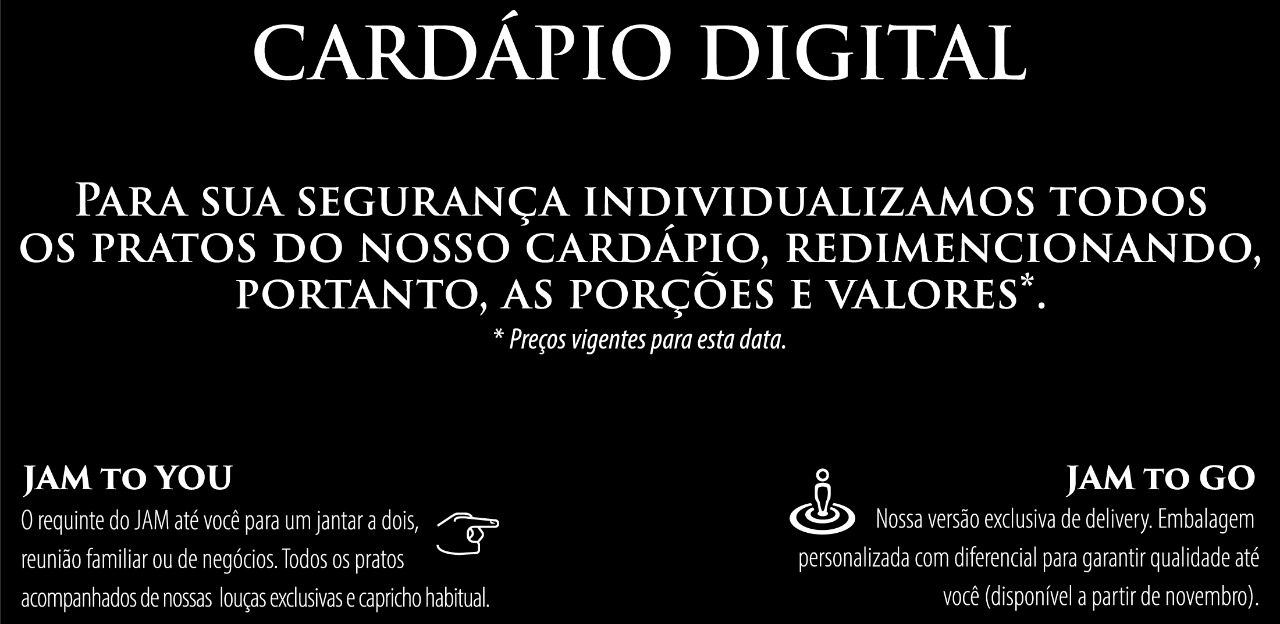
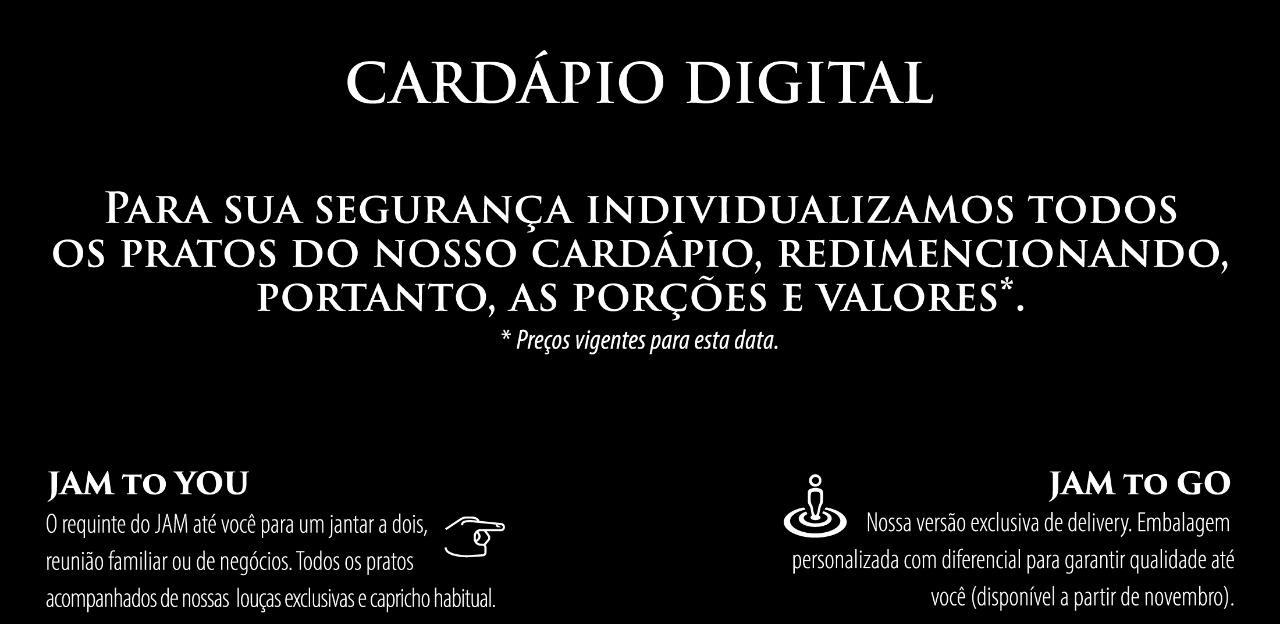
fix: correção na largura das imagens

diff --git a/src/App.jsx b/src/App.jsx
@@ -11,12 +11,13 @@ import Legenda from './components/Legenda'
 import * as actionsBebida from './actions/actionsBebida'
 import * as actionsComida from './actions/actionsComida'
 
-const StyleContainer = styled.div`
+const StyleContainer = styled(StickyContainer)`
   display: flex;
   flex-direction: column;
   background-color: #000;
   height: 100%;
   padding-bottom: 5rem;
+  width: 100%;
 `
 
 function App() {
@@ -42,14 +43,12 @@ function App() {
   }, [dispatch])
 
   return (
-    <StickyContainer>
       <StyleContainer>
         <Banner />
         <Menu />
         <Legenda />
         <Cardapio />
       </StyleContainer>
-    </StickyContainer>
   )
 }
 

diff --git a/src/components/Banner/styles.js b/src/components/Banner/styles.js
@@ -8,6 +8,7 @@ export const Container = styled.div`
   margin-bottom: 2rem;
   justify-content: center;
   align-items: center;
+  width: 100%;
 
   .slick-prev,
   .slick-next {
@@ -19,11 +20,13 @@ export const Container = styled.div`
 export const BannerTop = styled.div`
   display: flex;
   max-width: 1224px;
+  width: 100%;
 `
 
 export const BannerBottom = styled.div`
   display: flex;
   max-width: 1224px;
+  width: 100%;
 `
 
 export const Content = styled.div`
@@ -141,5 +144,5 @@ export const ContentSlider = styled.div`
 export const BannerImg = styled.img`
   width: 100%;
   height: auto;
-  object-fit: cover;
+  object-fit: contain;
 `
